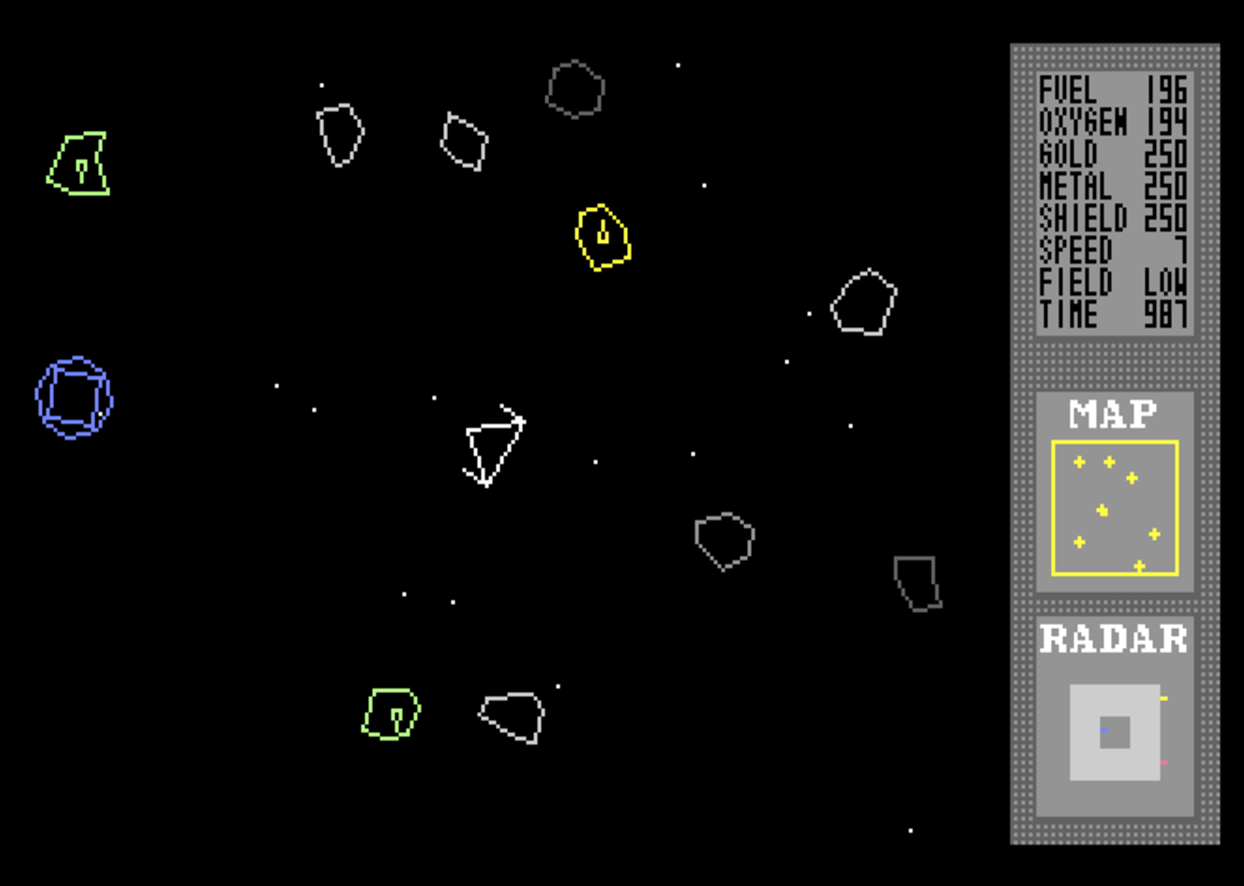
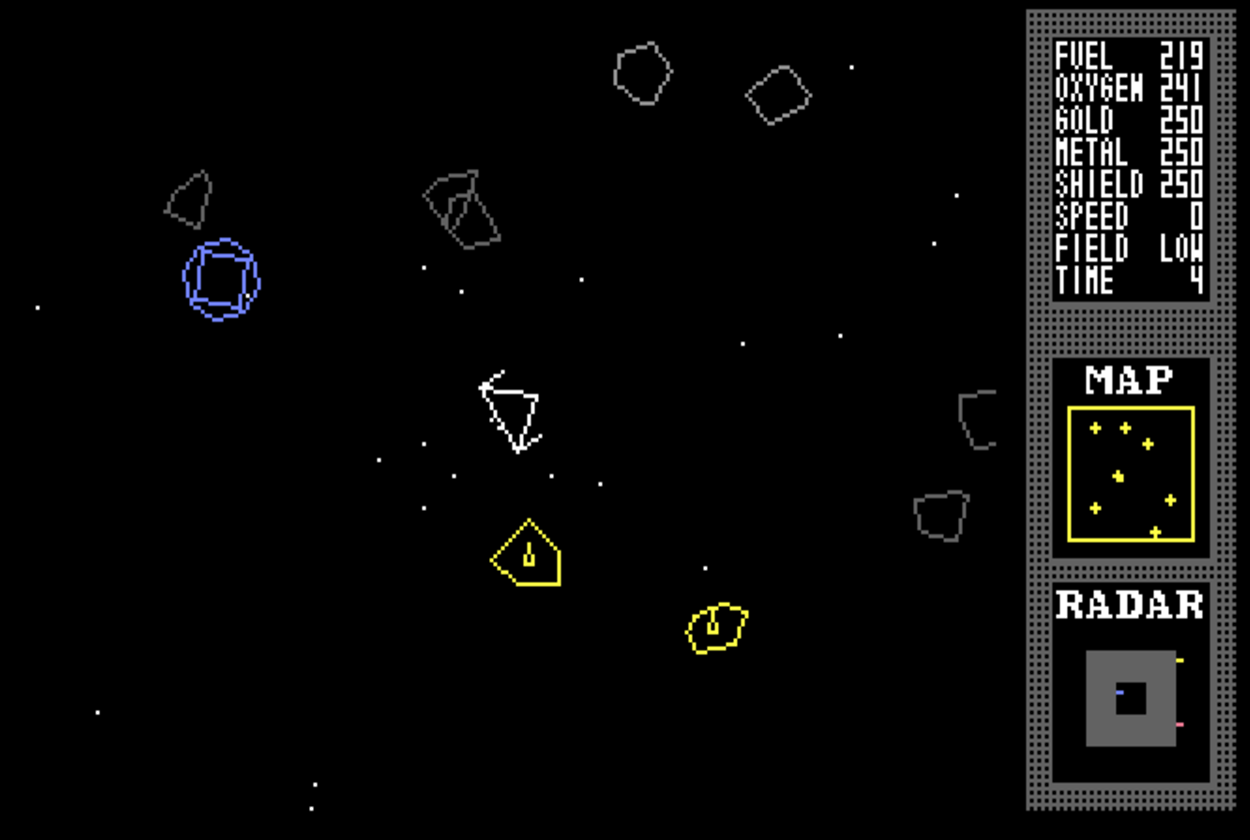
updated manual

diff --git a/README.md b/README.md
@@ -2,13 +2,15 @@
 
 ## Introduction
 
-This manual provides specific instructions and information for playing the Ad Astra with Commodore 64 computer. Your package should include 5.25" disk, a manual and a map.
+This manual provides specific instructions and information for playing the Ad Astra (ed. 7E8) with Commodore 64 computer. Your package should include 5.25" disk, a manual and a map.
 
 ## Computer systems
 
-Ad Astra will operate with a Commodore 64 or 128 computer with 1541 disk drive and a joystick. Second joystick is needed for 2 player co-operative game.
+Ad Astra will operate with a Commodore 64 or 128 computer with 1541 disk drive and a joystick. A second joystick is needed for 2 player co-operative game.
 
 ## Game
+
+### Background
 
 You are a star ranger deployed for long range reconnaissance mission in Rimward Reach asteroid belt.
 
@@ -18,11 +20,25 @@ Rimward reach has 8 Verge stations that perform mining operations.
 
 When game stars, your ship is located in Verge Station 5 and you will get your mission parameters via long range quantum communication link.
 
-Note - It is a known fact that bare singularity wraps the edges of the local space.
+## Difficulty levels
+
+When game starts you can choose the difficulty level: Rookie, Veteran or Elite. The difficulty level effects the game play in many different ways.
+
+### Rookie
+
+Designed for newcomers, the Rookie level simplifies gameplay significantly to ensure a smooth and welcoming introduction. At this level, your mission is straightforward: secure a Babbage Siphon from any Verge station (other than 5) and deliver it to Verge Station 5. The game boosts your chances of success by doubling the occurrence of gold and metal asteroids and ensuring their kinetic energy remains low, reducing the risk of collision. Your star ship comes equipped with upgraded engines, weapons, gyroscope, and cargo space, allowing you to focus on the mission without the need for early upgrades. Oxygen consumption is halved, and space hazards are significantly reduced, making your journey through the Rimward Reach asteroid belt safer and more manageable. This level is perfect for players looking to familiarize themselves with the game mechanics without the pressure of complex objectives or the need for extensive upgrades.
+
+### Veteran
+
+The Veteran level maintains the foundational supports of the Rookie difficulty but extends the gameplay to encompass the full campaign. Players are tasked with a more challenging mission: collect four unique items from different Verge stations. This objective necessitates careful planning and strategic upgrades to ship systems, introducing players to the game's deeper mechanics while still providing a safety net through some of the gameplay aids found in the Rookie level. The Veteran level strikes a balance between accessibility and challenge, offering a rewarding experience for players ready to delve deeper into the game's strategy and mechanics.
+
+### Elite
+
+The Elite level presents the ultimate challenge, stripping back all the aids and enhancements of the lower difficulties to deliver a raw and immersive experience. Players start with base-level ship systems, emphasizing the importance of strategic planning and prioritization from the outset. Upgrading your ship becomes a critical early goal, requiring careful management of resources and successful navigation through the asteroid belt's hazards. The Elite level is designed for those seeking to test their skills to the fullest, offering a rigorous campaign that demands tactical thinking, precise control, and a deep engagement with all aspects of gameplay. Only the most dedicated star rangers will thrive at this level, earning their place among the legends of the Rimward Reach.
 
 ## Flight Mode
 
-Movement in flight mode can be controlled with joystick in port 2. Another joystick in port 1 can be used to control weapon turret. Following table shows the controls:
+Movement in flight mode can be controlled with joystick in port 2. Another joystick in port 1 can be used to control weapon turret and engine overdrive. Following table shows the controls:
 
 ### Ship Control
 
@@ -56,6 +72,9 @@ Movement in flight mode can be controlled with joystick in port 2. Another joyst
 <tr>
   <td>Joy1</td><td>Fire</td><td>Shoot Turret</td>
 </tr>
+<tr>
+  <td>Joy1</td><td>Up</td><td>Engine Overdrive. In this mode ship's engine will generate more thrust, but fuel consumption is tripled</td>
+</tr>
 </table>
 
 ### Dashboard
@@ -87,7 +106,7 @@ Your ship's status is visible in the right side of the screen.
   <td>FIELD x</td><td>Asteroids' average kinetic energy in your proximity</td>
 </tr>
 <tr>
-  <td>TIME xxxx</td><td>Singularity countdown sensor</td>
+  <td>TIME xxxx</td><td>Mission Time</td>
 </tr>
 </table>
 
@@ -95,12 +114,12 @@ Map is located in the middle of the dashboard and shows your ship's position in 
 Map shows the whole sector and does not scroll. Small "+" signs on the map are Verge Stations and
 your own ship is shown with a single dot that moves on the map.
 
-Radar is placed in the lowest part of the dashboard. It will show large space objects in your local space. Radar is divided into 5x5 matrix and your own ship is always in the center of the radar. Each cell of the radar matrix represent an area of space that same size as the shown in the play screen. Thus an object located in the top left corner of the radar is two screen widths to the left and about two screen heights to up.
+Radar is placed in the lowest part of the dashboard. It will show large space objects in your local space. Radar is divided into 5x5 matrix and your own ship is always in the center of the radar. Each cell of the radar matrix represent an area of space about same size as the play screen. Thus an object located in the top left corner of the radar is two screen widths to the left and two screen heights to up.
 
 Color coding in radar:
 <table>
 <tr>
-  <td>Blue</td><td>Verge Station - can be docked for trade and diplomacy. Verge Station will activate Asteroid Protection Field when your ship reaches close proximity. To initiate docking sequence your ship's velocity must be below 3 and your ship must be in touch with the station.</td>
+  <td>Blue</td><td>Verge Station - can be docked for trade and diplomacy. Verge Station will activate Asteroid Protection Field when your ship reaches close proximity. To initiate docking sequence your ship's velocity must be below 9 and your ship must be in touch with the station.</td>
 </tr>
 <tr>
   <td>Yellow</td><td>Gravity well - ship's fuel scoops will automatically gather fuel during close approach</td>
@@ -198,12 +217,34 @@ This table provides the location of each artifact as stated in your intel:
 
 # Thanks
 
- - Fekete Csaba for XC=Basic3
  - Roy Batty for music
  - Krill for Loader
+ - Fekete Csaba for XC=Basic3
  - Michel de Bree for Retropixels
+ - Timppa and Spock for play testing
 
 # Release Notes
+
+3.0 Major release
+ - Instead of single file, game now occupies a floppy disk
+ - New story elements
+ - New dashboard
+ - New station interface
+ - Difficulty modes
+ - Usability improvements
+
+2.02
+ - Color coding for dashboard
+
+2.01
+ - Added Verge stations to sector map
+
+2.00
+ - New ship improvement - gyroscopes - upgrading those babies can make your ship spin like a wheel (I am still a bit hesitant about this change, as it diminishes the turret's value - but on the other hand I haven't heard anyone even trying the two player co-op)
+ - Both weapons (forward facing railgun and rotating turret) are now part of the initial ship configuration
+ - Possibility to upgrade weapon damage. Initial weapon damage is now weaker than originally, but in the high end the damage is about 2x more powerful than before
+
+1.01 fix for gold cargo bug
 
 1.0 changes since Beta
  - Game balance tuning
@@ -214,32 +255,11 @@ This table provides the location of each artifact as stated in your intel:
  - README game tips added
  - Multiple bug fixes
 
-1.01 fix for gold cargo bug
-
-2.00
- - New ship improvement - gyroscopes - upgrading those babies can make your ship spin like a wheel (I am still a bit hesitant about this change, as it diminishes the turret's value - but on the other hand I haven't heard anyone even trying the two player co-op)
- - Both weapons (forward facing railgun and rotating turret) are now part of the initial ship configuration
- - Possibility to upgrade weapon damage. Initial weapon damage is now weaker than originally, but in the high end the damage is about 2x more powerful than before
-
-2.01
- - Added Verge stations to sector map
-
-2.02
- - Color coding for dashboard
-
-3.0 Major release
- - Instead of single file, game now occupies a floppy disk
- - Story elements added to beginning and end
- - New dashboard
- - New station interface
- - New game mode "easy"
- - Usability improvements
-
 # Technical Information
 
 Ad Astra is my project to learn games programming for C64. The code is written with XC-Basic 3 (https://xc-basic.net/) and time/memory critical parts are transformed into assembly.
 
-Music is ripped from Millenium Demo and Batty Tunes - made by lengendary Roy Batty. I absolutely love his tunes! The permission to use them is given in the demo scroller.
+Music is ripped from Millenium Demo and Batty Tunes - made by lengendary Roy Batty. I absolutely love his tunes! The permission to use them is given in the Millenium demo scroller.
 Thank you Roy Batty!
 
 ![](https://github.com/orlof/aileon/blob/main/data/music.png?raw=true)
@@ -272,97 +292,7 @@ MAP data format:
             11  missile silo
 </pre>
 
-ZERO-PAGE LAYOUT (NOT COMPLETE)
-
-|  ZP  | SHARED |  XCB3  | LOADER |  ZX0   | INTRO  | BATTLE |
-|------|--------|--------|--------|--------|--------|--------|
-| 0x16 | ZP_W0  |   FP   |  USED  | SRCPTR |        |        |
-| 0x17 | ZP_W0  |   FP   |  USED  | SRCPTR |        |        |
-| 0x18 | ZP_W1  |   FP   |  USED  | DSTPTR |        |        |
-| 0x19 | ZP_W1  |   FP   |  USED  | DSTPTR |        |        |
-| 0x1A | ZP_W2  |   FP   |  USED  | LENGTH |        |        |
-| 0x1B | ZP_W2  |   FP   |  USED  | LENGTH |        |        |
-| 0x1C | ZP_I0  |   FP   |        | OFFSET |        |        |
-| 0x1D | ZP_I0  |   FP   |        | OFFSET |        |        |
-| 0x1E | ZP_I1  |   FP   |        |        |        |        |
-| 0x1F | ZP_I1  |   FP   |        |        |        |        |
-| 0x20 | ZP_B0  |   FP   |        |        |        |        |
-| 0x21 | ZP_B1  |   FP   |        |        |        |        |
-| 0x22 | ZP_B2  |   FP   |        |        |        |        |
-| 0x23 | ZP_B3  |   FP   |        |        |        |        |
-| 0x24 | ZP_B4  |   FP   |        |        |        |        |
-| 0x25 | ZP_B5  |   FP   |        |        |        |        |
-| 0x26 | ZP_L0  |   FP   |        |        |        |        |
-| 0x27 | ZP_L0  |   FP   |        |        |        |        |
-| 0x28 | ZP_L0  |   FP   |        |        |        |        |
-| 0x29 | ZP_L1  |   FP   |        |        |        |        |
-| 0x2A | ZP_L1  |   FP   |        |        |        |        |
-| 0x2B | ZP_L1  |   FP   |        |        |        |        |
-| 0x2C |        |   FP   |        |        |        |        |
-| 0x2D |        |   FP   |        |        |        |        |
-| 0x2E |        |   FP   |        |        |        |        |
-| 0x2F |        |   FP   |        |        |        |        |
-| 0x30 |        |   FP   |        |        |        |        |
-| 0x31 |        |   FP   |        |        |        |        |
-| 0x32 |        |   FP   |        |        |        |        |
-| 0x33 |        |   FP   |        |        |        |        |
-| 0x34 |        |   FP   |        |        |        |        |
-| 0x35 |        |   FP   |        |        |        |        |
-| 0x36 |        |   FP   |        |        |        |        |
-| 0x37 |        |   FP   |        |        |        |        |
-| 0x38 |        |   FP   |        |        |        |        |
-| 0x39 |        |   FP   |        |        |        |        |
-| 0x3A |        |   FP   |        |        |        |        |
-| 0x3B |        |   FP   |        |        |        |        |
-| 0x3C |        |  FAST  |        |        |        |        |
-| 0x3D |        |  FAST  |        |        |        |        |
-| 0x3E |        |  FAST  |        |        |        |        |
-| 0x3F |        |  FAST  |        |        |        |        |
-| 0x40 |        |  FAST  |        |        |        |        |
-| 0x41 |        |  FAST  |        |        |        |        |
-| 0x42 |        |  FAST  |        |        |        |        |
-| 0x43 |        |  FAST  |        |        |        |        |
-| 0x44 |        |  FAST  |        |        |        |        |
-| 0x45 |        |  FAST  |        |        |        |        |
-| 0x46 |        |  FAST  |        |        |        |        |
-| 0x47 |        |  FAST  |        |        |        |        |
-| 0x48 |        |  FAST  |        |        |        |        |
-| 0x49 |        |  FAST  |        |        |        |        |
-| 0x4A |        |  FAST  |        |        |        |        |
-| 0x4B |        |  FAST  |        |        |        |        |
-| 0x4C |        |  FAST  |        |        |        |        |
-| 0x4D |        |  FAST  |        |        |        |        |
-| 0x4E |        |  FAST  |        |        |        |        |
-| 0x4F |        |  FAST  |        |        |        |        |
-| 0x50 |        |  FAST  |        |        |        |        |
-| 0x51 |        |  FAST  |        |        |        |        |
-| 0x52 |        |  FAST  |        |        |        |        |
-| 0x53 |        |  FAST  |        |        |        |        |
-| 0x54 |        |  FAST  |        |        |        |        |
-| 0x55 |        |  FAST  |        |        |        |        |
-| 0x56 |        |  FAST  |        |        |        |        |
-| 0x57 |        |  FAST  |        |        |        |        |
-| 0x58 |        |  FAST  |        |        |        |        |
-| 0x59 |        |  FAST  |        |        |        |        |
-| 0x5A |        |  FAST  |        |        |        |        |
-| 0x5B |        |  FAST  |        |        |        |        |
-| 0x5C |        |  FAST  |        |        |        |        |
-| 0x5D |        |  FAST  |        |        |        |        |
-| 0x5E |        |  FAST  |        |        |        |        |
-| 0x5F |        |  FAST  |        |        |        |        |
-| 0x60 |        |  FAST  |        |        |        |        |
-| 0x61 |        |  FAST  |        |        |        |        |
-| 0x62 |        |  FAST  |        |        |        |        |
-| 0x63 |        |  FAST  |        |        |        |        |
-| 0x64 |        |  FAST  |        |        |        |        |
-| 0x65 |        |  FAST  |        |        |        |        |
-| 0x66 |        |  FAST  |        |        |        |        |
-| 0x67 |        |  FAST  |        |        |        |        |
-| 0x68 |        |  FAST  |        |        |        |        |
-| 0x69 |        |  FAST  |        |        |        |        |
-
-
-MEMORY LAYOUT (NOT COMPLETE)
+MEMORY LAYOUT (INCOMPLETE)
 
 | BANK | START | END   | TYPE   | LOADER   | PROLOGUE | STATION  | SPACE    | GAMEOVER | EPILOGUE |
 |------|-------|-------|--------|----------|----------|----------|----------|----------|----------|
@@ -430,30 +360,3 @@ MEMORY LAYOUT (NOT COMPLETE)
 | 3    | $F400 | $F7FF | KERNAL | BITMAP   | BITMAP   | BITMAP   | BITMAP   | BITMAP   | BITMAP   |
 | 3    | $F800 | $FBFF | KERNAL | BITMAP   | BITMAP   | BITMAP   | BITMAP   | BITMAP   | BITMAP   |
 | 3    | $FC00 | $FFFF | KERNAL | BITMAP   | BITMAP   | BITMAP   | BITMAP   | BITMAP   | BITMAP   |
-
-
-|START |END   | NAME              | TYPE  |
-|------|------|-------------------|-------|
-| 0800 | 08ff | GameMap           | B(256)|
-| 0900 | 0900 | GameState         | B     |
-| 0901 | 0902 | TimeLeft          | D     |
-| 0903 | 0905 | PlayerCredit      | L     |
-| 0906 | 0908 | PlayerX           | L     |
-| 0909 | 090b | PlayerY           | L     |
-| 090c | 090c | StationId         | B     |
-| 090d | 090f | PlayerSubSystem   | B(3)  |
-| 0910 | 0919 | ComponentValue    | W(5)  |
-| 091a | 0923 | ComponentCapacity | W(5)  |
-| 0924 | 092f | ArtifactLocation  | B(12) |
-| 0930 | 0931 | PlayerSectorMapX  | W     |
-| 0932 | 0932 | PlayerSectorMapY  | B     |
-| 0933 | 0933 | PlayerSectorMapRestore | B     |
-
-TODO
-- X increase bullet speed
-- X replace timer with time
-- X add score
-- turboboost at gunners joystick
-- X map at space station
-- update README
-- Make ITCH release
